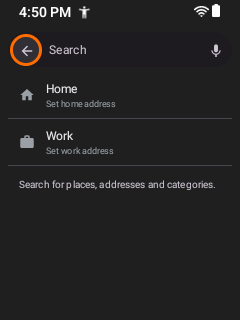
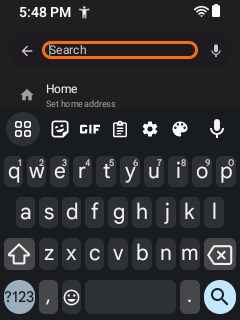
Fix search-field focus steal on soft-key open; harness types for real
Real bug (device-measured @user, soft-key mode): the "Search" soft
key DID land focus on the field, but ~165 ms later the window churn from
the overlay opening (the Yapchik bar clears when search opens) stole it
to the Back arrow - onFocusChanged's blur then disarmed the field, so it
sat disabled with the IME hidden and a keypad user could not type at all.

SearchBar now defends an armed field through a 700 ms settle window: a
blur inside the window does not disarm, and the arm effect re-requests
focus until it sticks (the dpadAutoFocus confirm-until-landed idiom,
extended to confirm it STAYS). Deliberate navigation - DOWN into the
rows, LEFT/RIGHT escape at the text ends, a submit - ends the window
immediately so it never fights the user (verified: an immediate DOWN
lands on the Home row and stays).

Harness: type_search now taps the overlay's EditText before typing (new
edit_field_center) so the typed fallback works even where the field is
not focused. Search phase green 3/3 at 240x320: search-overlay,
search-results (60 results), search-history-astype ("cof" -> coffee).

diff --git a/app/src/main/java/app/vela/ui/search/SearchBar.kt b/app/src/main/java/app/vela/ui/search/SearchBar.kt
@@ -60,6 +60,13 @@ import androidx.compose.ui.text.input.TextFieldValue
 import androidx.compose.ui.unit.dp
 import app.vela.R
 
+// How long an armed search field defends its focus against the overlay-open window churn (the
+// soft-key bar clearing steals focus to the Back arrow ~165 ms after it lands - device-measured
+// @240x320). Long enough to outlive the churn, short enough that a user's own key travel is
+// never fought - and deliberate navigation ends the window immediately anyway (fieldNavAway).
+private const val FIELD_SETTLE_MS = 700L
+private const val FIELD_SETTLE_STEPS = 14 // x50 ms = the settle window
+
 @Composable
 fun SearchBar(
     query: String,
@@ -91,9 +98,29 @@ fun SearchBar(
     // hasTouchscreen note below): a touchscreen/T9 phone needs it to type; a truly touchless
     // hardware-keyboard phone keeps it hidden so a shown IME can't swallow the BACK key.
     var fieldArmed by remember { mutableStateOf(false) }
+    // Focus-steal defence (device-measured @240x320, soft-key mode): arming DOES land focus on the
+    // field, but ~165 ms later the window churn from the overlay opening (the Yapchik soft-key bar
+    // clears when search opens - an Android View removal) STEALS it to the first focusable, the Back
+    // arrow - leaving the IME hidden and the field disabled, so a keypad user pressing "Search" could
+    // not type at all (logged: focus true -> stolen false -> disarm). So the arm holds a short SETTLE
+    // window during which (a) a blur does NOT disarm and (b) the arm effect re-requests focus - the
+    // same confirm-until-landed idiom as dpadAutoFocus, extended to confirm it STAYS. Deliberate
+    // navigation out of the field (DOWN into the rows, LEFT/RIGHT escape at the text ends, a submit)
+    // sets [fieldNavAway], which ends the settle window immediately so it never fights the user.
+    var fieldEverFocused by remember { mutableStateOf(false) }
+    var fieldFocused by remember { mutableStateOf(false) }
+    var fieldNavAway by remember { mutableStateOf(false) }
+    var armedAtMs by remember { mutableStateOf(0L) }
     val fieldFocus = remember { FocusRequester() }
-    // External open (a "Search" soft key): arming the field focuses it, which opens the overlay.
-    LaunchedEffect(armFieldSignal) { if (armFieldSignal > 0) fieldArmed = true }
+    // External open (a "Search" soft key): arming the field focuses it, which opens the overlay. Reset
+    // the latches each fresh arm so re-opening search arms cleanly.
+    LaunchedEffect(armFieldSignal) {
+        if (armFieldSignal > 0) {
+            fieldEverFocused = false; fieldNavAway = false
+            armedAtMs = android.os.SystemClock.uptimeMillis()
+            fieldArmed = true
+        }
+    }
     // The field is driven by a TextFieldValue (not the bare String) so we OWN the caret: on a D-pad
     // device LEFT/RIGHT then move the cursor WITHIN the text and only escape to Back/X at the ends
     // (issue #24 - L/R jumped straight out of the field). Kept in sync with the external String query
@@ -112,9 +139,21 @@ fun SearchBar(
     // the IME shown to enter text - hiding it left them unable to type at all (issue #24).
     val hasTouchscreen = remember { context.packageManager.hasSystemFeature(PackageManager.FEATURE_TOUCHSCREEN) }
     LaunchedEffect(fieldArmed) {
-        if (fieldArmed) {
-            runCatching { fieldFocus.requestFocus() }
-            if (hasTouchscreen) keyboard?.show() else keyboard?.hide()
+        if (!fieldArmed) return@LaunchedEffect
+        // Hold focus on the field through the settle window (see the focus-steal note above): request
+        // until it lands (a single requestFocus can race the overlay's first composition), re-raise the
+        // IME each time it lands, and re-request if the window churn steals it back off the field.
+        // Ends early the moment the user deliberately navigates away.
+        var landed = false
+        repeat(FIELD_SETTLE_STEPS) {
+            if (fieldNavAway) return@LaunchedEffect
+            if (fieldFocused) {
+                if (!landed) { landed = true; if (hasTouchscreen) keyboard?.show() else keyboard?.hide() }
+            } else {
+                landed = false
+                runCatching { fieldFocus.requestFocus() }
+            }
+            kotlinx.coroutines.delay(50)
         }
     }
     // Match the darker tone of the category chips (elevated chips sit on
@@ -163,7 +202,11 @@ fun SearchBar(
                                 .dpadHighlight(DpadRoundedCornerShape(20.dp))
                                 // dpadClickable, not clickable: a raw clickable here drew
                                 // Material's grey focus layer under the ring (docs/dpad.md).
-                                .dpadClickable { fieldArmed = true }
+                                .dpadClickable {
+                                    fieldEverFocused = false; fieldNavAway = false
+                                    armedAtMs = android.os.SystemClock.uptimeMillis()
+                                    fieldArmed = true
+                                }
                                 // Inset the text INSIDE the focus ring - with none, the first
                                 // letter started at the Box edge and the 2dp ring stroke drew
                                 // straight through it (keypad phones see this on every search).
@@ -196,7 +239,7 @@ fun SearchBar(
                     singleLine = true,
                     textStyle = MaterialTheme.typography.bodyLarge.copy(color = MaterialTheme.colorScheme.onSurface),
                     keyboardOptions = KeyboardOptions(imeAction = ImeAction.Search),
-                    keyboardActions = KeyboardActions(onSearch = { onSearch() }),
+                    keyboardActions = KeyboardActions(onSearch = { fieldNavAway = true; onSearch() }),
                     cursorBrush = SolidColor(MaterialTheme.colorScheme.primary),
                     modifier = Modifier
                         .fillMaxWidth()
@@ -226,6 +269,7 @@ fun SearchBar(
                                 // D-pad (measured). Explicitly hand focus downward instead.
                                 dpadMode && ev.key == Key.DirectionDown -> {
                                     if (ev.type == KeyEventType.KeyDown) {
+                                        fieldNavAway = true // deliberate leave - end the settle window
                                         focusManager.moveFocus(FocusDirection.Down)
                                     }
                                     true
@@ -240,6 +284,9 @@ fun SearchBar(
                                         if (ev.key == Key.DirectionLeft) sel.start > 0
                                         else sel.end < fieldValue.text.length
                                     if (!canMove) {
+                                        // Falling through lets focus escape to Back / the clear X -
+                                        // a deliberate leave, so end the settle window.
+                                        if (ev.type == KeyEventType.KeyDown) fieldNavAway = true
                                         false
                                     } else {
                                         if (ev.type == KeyEventType.KeyDown) {
@@ -253,7 +300,19 @@ fun SearchBar(
                             }
                         }
                         .onFocusChanged {
-                            if (!it.isFocused) fieldArmed = false
+                            // Disarm only on a genuine leave: after the field has really held focus
+                            // (never on the initial "not focused yet" event the arming frame fires),
+                            // AND only once the settle window is over or the user deliberately
+                            // navigated away - a blur inside the window is the overlay-open focus
+                            // steal, which the arm effect reverses (see the focus-steal note above).
+                            fieldFocused = it.isFocused
+                            if (it.isFocused) {
+                                fieldEverFocused = true
+                            } else if (fieldEverFocused &&
+                                (fieldNavAway || android.os.SystemClock.uptimeMillis() - armedAtMs > FIELD_SETTLE_MS)
+                            ) {
+                                fieldArmed = false
+                            }
                             onFocusChange(it.isFocused)
                         },
                 )